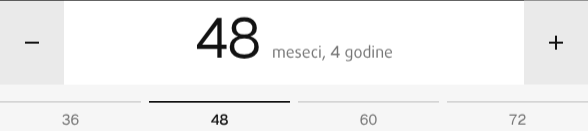
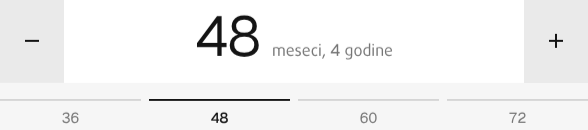
Ekotehnika, no black rules on the Najam rental card
Filip, "dont do these lines here". The rental card in the Najam hero
carried a 2px black rule along its top and a 1px black line over the term
stepper. Both are gone, the card stands on its tint. The ruling is in the
taste log, a card or control inside a cell draws no ink rule of its own,
and the stepper's picture in the kit is refreshed.

Claude-Session: https://claude.ai/code/session_01F8a4egDc2www7VXNFCZgtz

diff --git a/ekotehnika-hero/src/shop/pages.css b/ekotehnika-hero/src/shop/pages.css
@@ -101,7 +101,6 @@
   display: grid;
   gap: 24px;
   padding: 24px 24px 32px;
-  border-top: 2px solid var(--black);
   background: var(--tint);
   animation: sp-from-bottom 800ms var(--out) 280ms both;
 }
@@ -483,7 +482,6 @@
 .pg-step-row {
   display: flex;
   align-items: stretch;
-  border-top: 1px solid var(--black);
   background: var(--white);
 }
 

diff --git a/studio/clients/ekotehnika/taste.md b/studio/clients/ekotehnika/taste.md
@@ -11,6 +11,7 @@ Entry format.
 - **YYYY-MM-DD HH:MM, <thing>, <what happened>.** ACCEPTED | REJECTED. Said: "<Filip's words, under 20 words>". Why: <the reason>. Carry forward: <the rule a builder follows next time>.
 ```
 
+- **2026-11-19 17:19, ink rules along the top of a card or a control inside a cell, the Najam rental card's 2px black top (.pg-rent) and the 1px black line over the term stepper (.pg-step-row).** REJECTED. Said: "dont do these lines here". Why (inferred): the grid already draws the page's lines, and a black rule across a card reads as another line of the grid running through a block of words, which he ruled out on 18 November ("make sure grid doesn't interfere with UI"). Carry forward: a card, a panel or a control inside a cell carries no ink rule of its own along its top or bottom, it stands on its fill or a light 1px edge, and the grid's lines are the only rules.
 - **2026-11-19 16:42, the Hitan servis call and Zakažite servis in the Servis hero, three versions on one board (briefs/shop/n39-call-board.png), 3 the number as type picked.** ACCEPTED. Said: "go with 3". Why (inferred): the emergency number reads largest with no box round it, and the call stays one clear white button on the dark. Losers: 1 one row, the call as an outlined box button with the number at 48px; 2 an action bar of two equal halves, the call the white primary. Rejected with it: the old box capped at 560px, whose number ran under its phone cell on a wider set, and its phone cell's expanding ring, which stood as a dark box round it in a still frame. Carry forward: an emergency or primary phone number on a dark hero is set as type, white, up to 64px, sized to its cell and never capped, a small square mark beside its label blinks and never rings, and the actions under it are the site's own buttons, a white call with the phone cell and the secondary beside it.
 - **2026-11-19 16:03, the picked models on the left of Kontakt, a still grid of two (.sp-contact-pics, each model's picture, kind, name, two figures and a cross) killed, the sliding photo grid of the Najam hero (.pg-reel, two columns rising at their own pace) to be used instead.** ACCEPTED (not yet built, then built the same turn, Filip has not seen it). Said: "just do a random grid of sliding images like we did on a hero page here". Why (inferred): the still grid read as a second product list beside the form, the moving reel keeps the left column alive and repeats a look he already has on Najam. Carry forward: a column that shows what a visitor picked is the sliding reel, its pictures in mixed sizes, the cross to take a pick out lives in the list beside the field, never on a moving picture.
 - **2026-11-19 14:32, the term picker of the long rental in the Najam hero's rental card, four versions on one board (briefs/pages/n2-term-cards-board.png), 3 the stepper picked.** ACCEPTED. Said: "go with 3". Why (inferred): one large figure with its years ("48 meseci, 4 godine") reads at a glance and the minus and plus cells repeat the buttons' square cell, while the four stops under it still show the whole range. Losers: 1 a ruler, a white track in four with a sliding black block; 2 tiles with the years and a corner check cell, the evolution of the cards he asked to work on; 4 segments, the Kratkoročni and Dugoročni control four to a row. Carry forward: a choice from a short ordered range (terms, sizes, quantities) is a stepper, one large figure between a grey pale minus cell and a plus cell that turn black on hover, the unit and its plain equivalent beside the figure, and a row of 2px stops under it with the picked one black.

diff --git a/studio/clients/ekotehnika/tasks.md b/studio/clients/ekotehnika/tasks.md
@@ -298,7 +298,7 @@ Task format
   - [ ] /uireview on the four pages
   - [ ] Filip looks on localhost
   - [ ] The client answers the Delovi questions and checks the new Serbian lines, plan.md
-  - [x] Production after Filip's ship line, "push vercel" for 432dc56, live at https://ekotehnika.vercel.app/najam as de25212 on the ekotehnika repo, and the Gume tile's tyre photo, "push vercel" for d0d6c80, as 30ff66f, and Kontakt's several topics and models, its sliding grid and the Servis call as type, "push vercel" for 0391935, as de70cb0, and Kontakt's model search, "push vercel" for fb813a7, as d6d4326
+  - [x] Production after Filip's ship line, "push vercel" for 432dc56, live at https://ekotehnika.vercel.app/najam as de25212 on the ekotehnika repo, and the Gume tile's tyre photo, "push vercel" for d0d6c80, as 30ff66f, and Kontakt's several topics and models, its sliding grid and the Servis call as type, "push vercel" for 0391935, as de70cb0, and Kontakt's model search, "push vercel" for fb813a7, as d6d4326, and the Kontakt grid each picture once and shuffled per load, "push vercel" for c29c1e7, as a0b8e38
 
 - ekotehnika-6 Version 5 in light mode, servis stays dark. Link https://ekotehnika-hero.vercel.app/?v=5
   - [x] Let the shell set dark beats per version

diff --git a/studio/clients/ekotehnika/briefs/pages/notes.md b/studio/clients/ekotehnika/briefs/pages/notes.md
@@ -14,3 +14,8 @@ Filip, 19 November, after commit e25f7ab. Each note as he sent it, then what it 
   the form's server needs, the message filled in and the page's number large beside it. Built, on the branch.
 - Note 2. Four versions of the term picker on one board, n2-term-cards-board.png beside this file. Filip, "go with 3", the stepper. The
   other three and the ?kartice switch are gone, the stepper is in the kit as term-stepper (taste 2026-11-19 14:32).
+
+## Round 4
+
+- "dont do these lines here". His screenshot marks the Najam rental card's 2px black top and the 1px black line over the term stepper.
+  Both gone the same turn, taste 2026-11-19 entry on ink rules inside a cell. The stepper's four stops under the figure stay.
